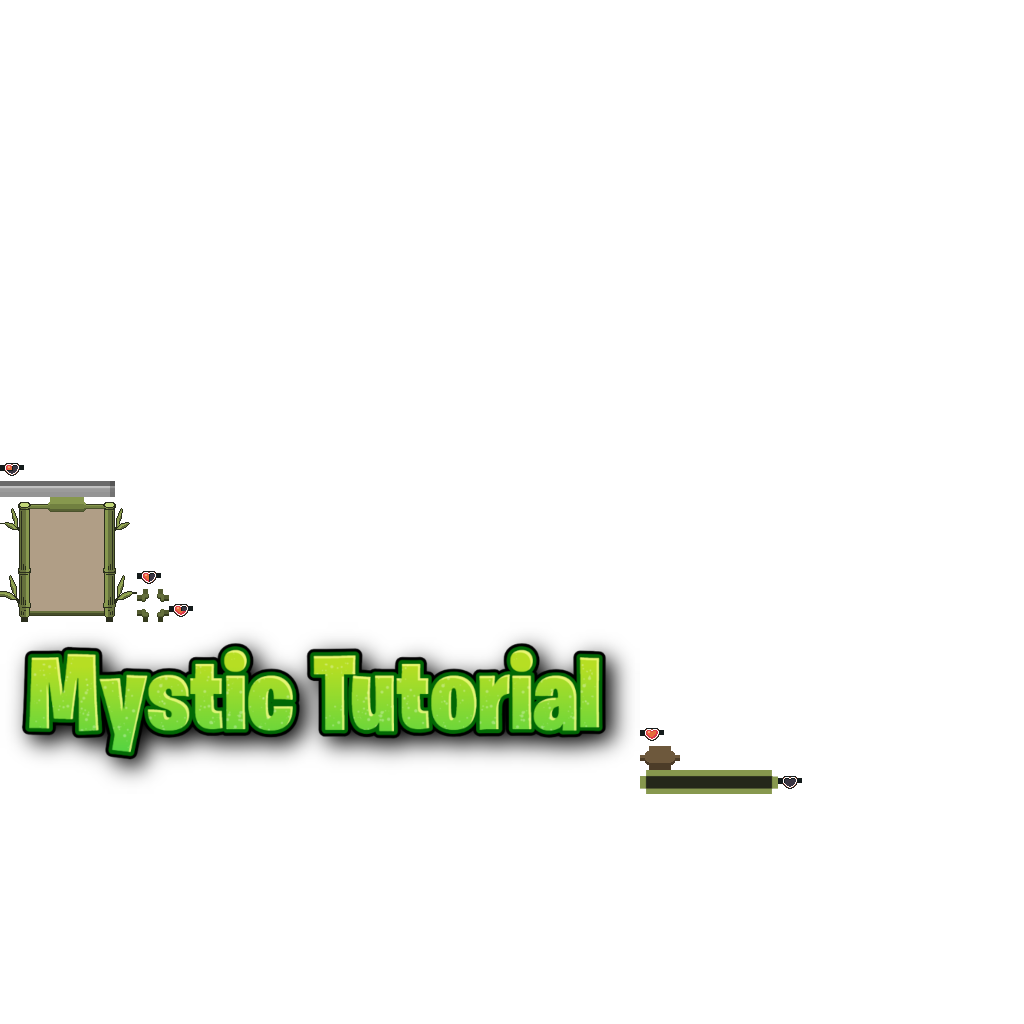
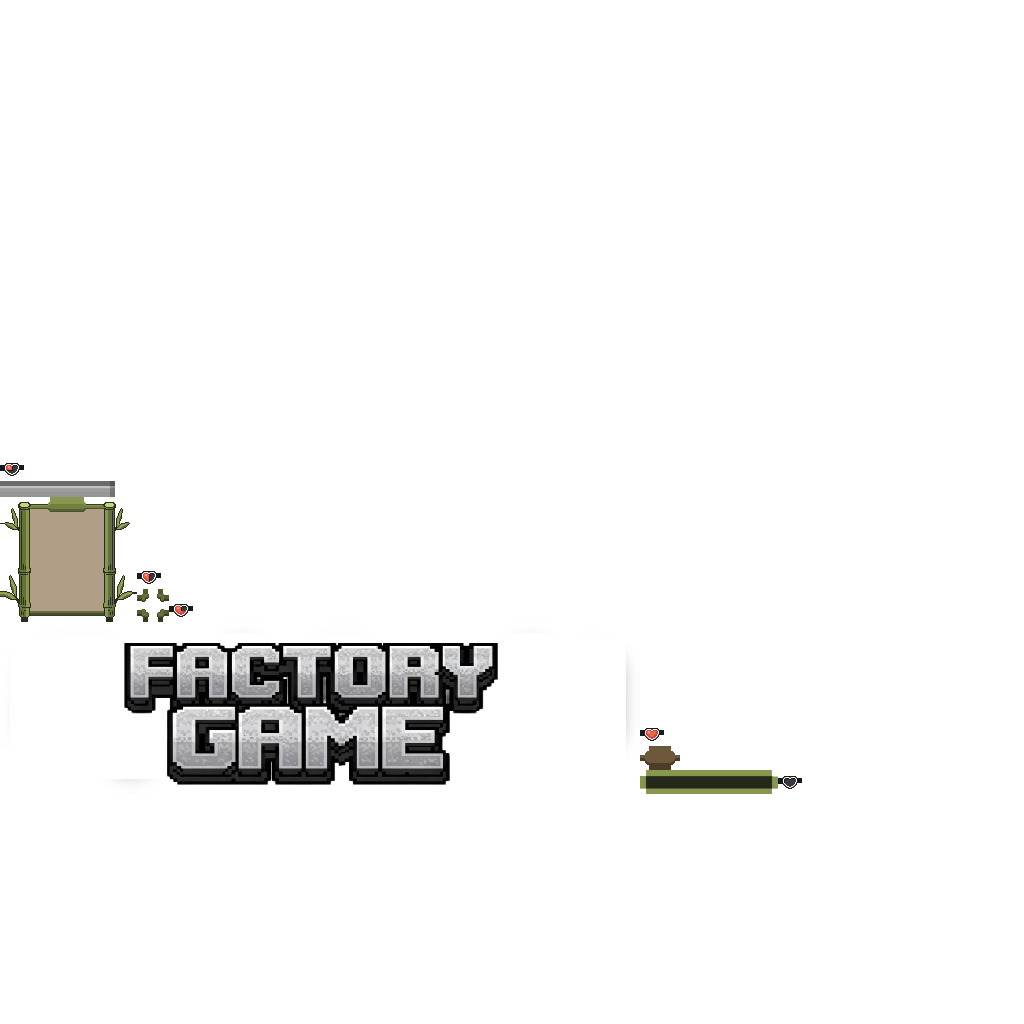
Change title and add interacting system start.

Changed region(s): [[0.0, 0.625, 0.625, 0.7812]]

diff --git a/core/src/main/java/com/placeholder/factory_game/system/InteractSystem.java b/core/src/main/java/com/placeholder/factory_game/system/InteractSystem.java
@@ -1,0 +1,114 @@
+package com.placeholder.factory_game.system;
+
+import com.badlogic.ashley.core.Entity;
+import com.badlogic.ashley.core.Family;
+import com.badlogic.ashley.systems.IteratingSystem;
+import com.badlogic.gdx.Gdx;
+import com.badlogic.gdx.math.Rectangle;
+import com.badlogic.gdx.math.Vector2;
+import com.badlogic.gdx.physics.box2d.Body;
+import com.badlogic.gdx.physics.box2d.Fixture;
+import com.badlogic.gdx.physics.box2d.PolygonShape;
+import com.badlogic.gdx.physics.box2d.Shape.Type;
+import com.badlogic.gdx.physics.box2d.World;
+import com.badlogic.gdx.utils.Array;
+import com.badlogic.gdx.utils.GdxRuntimeException;
+import com.placeholder.factory_game.audio.AudioService;
+import com.placeholder.factory_game.component.*;
+import com.placeholder.factory_game.component.Facing.FacingDirection;
+
+public class InteractSystem extends IteratingSystem {
+    public static final Rectangle attackAABB = new Rectangle();
+
+    private final AudioService audioService;
+    private final World world;
+    private final Vector2 tmpVertex;
+    private Body attackerBody;
+    private float attackDamage;
+
+    public InteractSystem(World world, AudioService audioService) {
+        super(Family.all(Attack.class, Facing.class, Physic.class).get());
+        this.audioService = audioService;
+        this.world = world;
+        this.tmpVertex = new Vector2();
+        this.attackerBody = null;
+        this.attackDamage = 0f;
+    }
+
+    /**
+     * Processes attack logic including sound effects and damage detection.
+     */
+    @Override
+    protected void processEntity(Entity entity, float deltaTime) {
+
+//        Gdx.app.debug("TEST", "testsfasfassdsd");
+        Attack attack = Attack.MAPPER.get(entity);
+        // can attack = true means that the attack was not started yet
+        if (attack.canAttack()) return;
+
+        if (attack.hasAttackStarted() && attack.getSfx() != null) {
+            audioService.playSound(attack.getSfx());
+            Move move = Move.MAPPER.get(entity);
+            if (move != null) {
+                move.setRooted(true);
+            }
+        }
+
+        attack.decAttackTimer(deltaTime);
+        if (attack.canAttack()) {
+            FacingDirection facingDirection = Facing.MAPPER.get(entity).getDirection();
+            attackerBody = Physic.MAPPER.get(entity).getBody();
+            PolygonShape attackPolygonShape = getAttackFixture(attackerBody, facingDirection);
+            updateAttackAABB(attackerBody.getPosition(), attackPolygonShape);
+
+            this.attackDamage = attack.getDamage();
+            world.QueryAABB(this::attackCallback, attackAABB.x, attackAABB.y, attackAABB.width, attackAABB.height);
+
+            Move move = Move.MAPPER.get(entity);
+            if (move != null) {
+                move.setRooted(false);
+            }
+        }
+    }
+
+    private boolean attackCallback(Fixture fixture) {
+        Body body = fixture.getBody();
+        if (body.equals(attackerBody)) return true;
+        if (!(body.getUserData() instanceof Entity entity)) return true;
+
+        Life life = Life.MAPPER.get(entity);
+        if (life == null) {
+            return true;
+        }
+
+        Damaged damaged = Damaged.MAPPER.get(entity);
+        if (damaged == null) {
+            entity.add(new Damaged(this.attackDamage));
+        } else {
+            damaged.addDamage(this.attackDamage);
+        }
+        return true;
+    }
+
+    private void updateAttackAABB(Vector2 bodyPosition, PolygonShape attackPolygonShape) {
+        attackPolygonShape.getVertex(0, tmpVertex);
+        tmpVertex.add(bodyPosition);
+        attackAABB.setPosition(tmpVertex.x, tmpVertex.y);
+
+        attackPolygonShape.getVertex(2, tmpVertex);
+        tmpVertex.add(bodyPosition);
+        attackAABB.setSize(tmpVertex.x, tmpVertex.y);
+    }
+
+    private PolygonShape getAttackFixture(Body body, FacingDirection direction) {
+        Array<Fixture> fixtureList = body.getFixtureList();
+        String fixtureName = "attack_sensor_" + direction.getAtlasKey();
+        for (Fixture fixture : fixtureList) {
+            if (fixtureName.equals(fixture.getUserData()) && Type.Polygon.equals(fixture.getShape().getType())) {
+                return (PolygonShape) fixture.getShape();
+            }
+        }
+
+        throw new GdxRuntimeException("Entity has no polygon attack sensor with userData '" + fixtureName + "'");
+    }
+}

diff --git a/core/src/main/java/com/placeholder/factory_game/screen/GameScreen.java b/core/src/main/java/com/placeholder/factory_game/screen/GameScreen.java
@@ -18,19 +18,7 @@ import com.placeholder.factory_game.asset.SkinAsset;
 import com.placeholder.factory_game.audio.AudioService;
 import com.placeholder.factory_game.input.GameControllerState;
 import com.placeholder.factory_game.input.KeyboardController;
-import com.placeholder.factory_game.system.AnimationSystem;
-import com.placeholder.factory_game.system.AttackSystem;
-import com.placeholder.factory_game.system.CameraSystem;
-import com.placeholder.factory_game.system.ControllerSystem;
-import com.placeholder.factory_game.system.DamagedSystem;
-import com.placeholder.factory_game.system.FacingSystem;
-import com.placeholder.factory_game.system.FsmSystem;
-import com.placeholder.factory_game.system.LifeSystem;
-import com.placeholder.factory_game.system.PhysicDebugRenderSystem;
-import com.placeholder.factory_game.system.PhysicMoveSystem;
-import com.placeholder.factory_game.system.PhysicSystem;
-import com.placeholder.factory_game.system.RenderSystem;
-import com.placeholder.factory_game.system.TriggerSystem;
+import com.placeholder.factory_game.system.*;
 import com.placeholder.factory_game.tiled.TiledAshleyConfigurator;
 import com.placeholder.factory_game.tiled.TiledService;
 import com.placeholder.factory_game.ui.model.GameViewModel;
@@ -70,6 +58,7 @@ public class GameScreen extends ScreenAdapter {
         this.engine.addSystem(new PhysicSystem(physicWorld, 1 / 60f));
         this.engine.addSystem(new FacingSystem());
         this.engine.addSystem(new AttackSystem(physicWorld, audioService));
+        this.engine.addSystem(new InteractSystem(physicWorld, audioService));
         this.engine.addSystem(new FsmSystem());
         // DamagedSystem must run after FsmSystem to correctly
         // detect when a damaged animation should be played.
